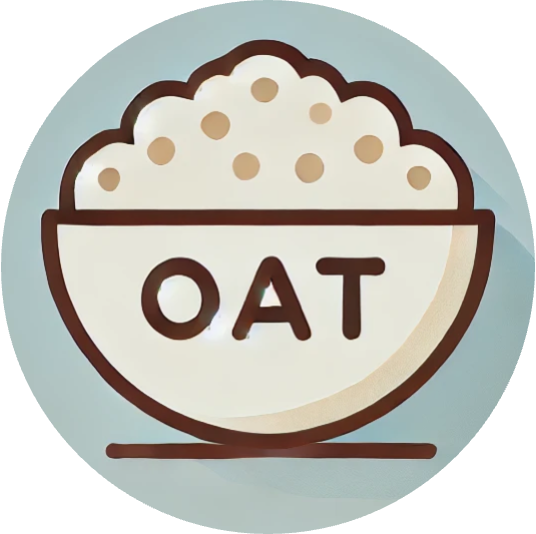
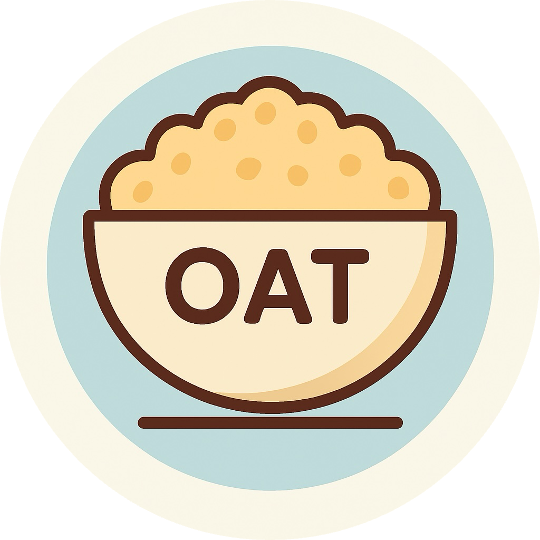
Update teaser.

diff --git a/index.html b/index.html
@@ -89,7 +89,7 @@
                 <a href="" target="_blank">Chong Shang</a><sup>1</sup>,
               </span>
               <span class="author-block">
-                <a href="" target="_blank">Kiran S. Bhat</a><sup>1</sup>,
+                <a href="" target="_blank">Kiran Bhat</a><sup>1</sup>,
               </span>
               <span class="author-block">
                 <a href="https://www.cs.cmu.edu/~deva/" target="_blank">Deva Ramanan</a><sup>2</sup>,
@@ -125,7 +125,7 @@
                   </span>
 
                   <!-- Github link -->
-                  <span class="link-block">
+                  <!-- <span class="link-block">
                     <a href="" target="_blank"
                     class="external-link button is-normal is-rounded is-dark">
                     <span class="icon">
@@ -133,7 +133,7 @@
                     </span>
                     <span>Code (Coming Soon)</span>
                   </a>
-                </span>
+                </span> -->
             </div>
           </div>
         </div>
@@ -147,7 +147,7 @@
 <section class="hero teaser">
   <div class="container is-max-desktop">
     <div class="hero-body">
-      <img src="./rsc/figures/teaser_v2.jpg" style="width: 100%;" />
+      <img src="./rsc/figures/teaser_v5.png" style="width: 100%;" />
       <div class="content has-text-justified">
         <p>
           We propose an Octree-based Adaptive shape Tokenization (<span style="font-weight:900">OAT</span>) that dynamically allocates tokens based on shape complexity. Our approach achieves <span style="font-weight:900"> better</span> reconstruction quality with <span style="font-weight:900"> fewer</span> tokens on average (439 compared to 512 on the full test set) by intelligently distributing more tokens to complex shapes while saving on simpler ones.
@@ -499,12 +499,12 @@
         <div class="content">
           <h2 class="title is-3">Reconstruction Results</h2>
             <div style="text-align: center;">
-              <img src="./rsc/figures/comparison_IoU.png"  style="max-width: 55%; height: auto;">
+              <img src="./rsc/figures/comparison_IoU_v2.png"  style="max-width: 55%; height: auto;">
             </div>
             <div class="content has-text-justified">
             <p>
               We plot reconstruction quality (IoU) against latent size in both discrete (left) and continuous (right) scenarios. We use KiloBytes (KB) for continuous latent representations for a fair comparison.
-              Our method consistently outperforms baseline approaches at equivalent latent sizes and achieves comparable reconstruction quality with approximately 50% smaller latent representations.
+              Our method consistently outperforms baseline approaches at equivalent latent sizes and achieves comparable reconstruction quality with much smaller latent representations.
             </p>
           </div>
         </div>
